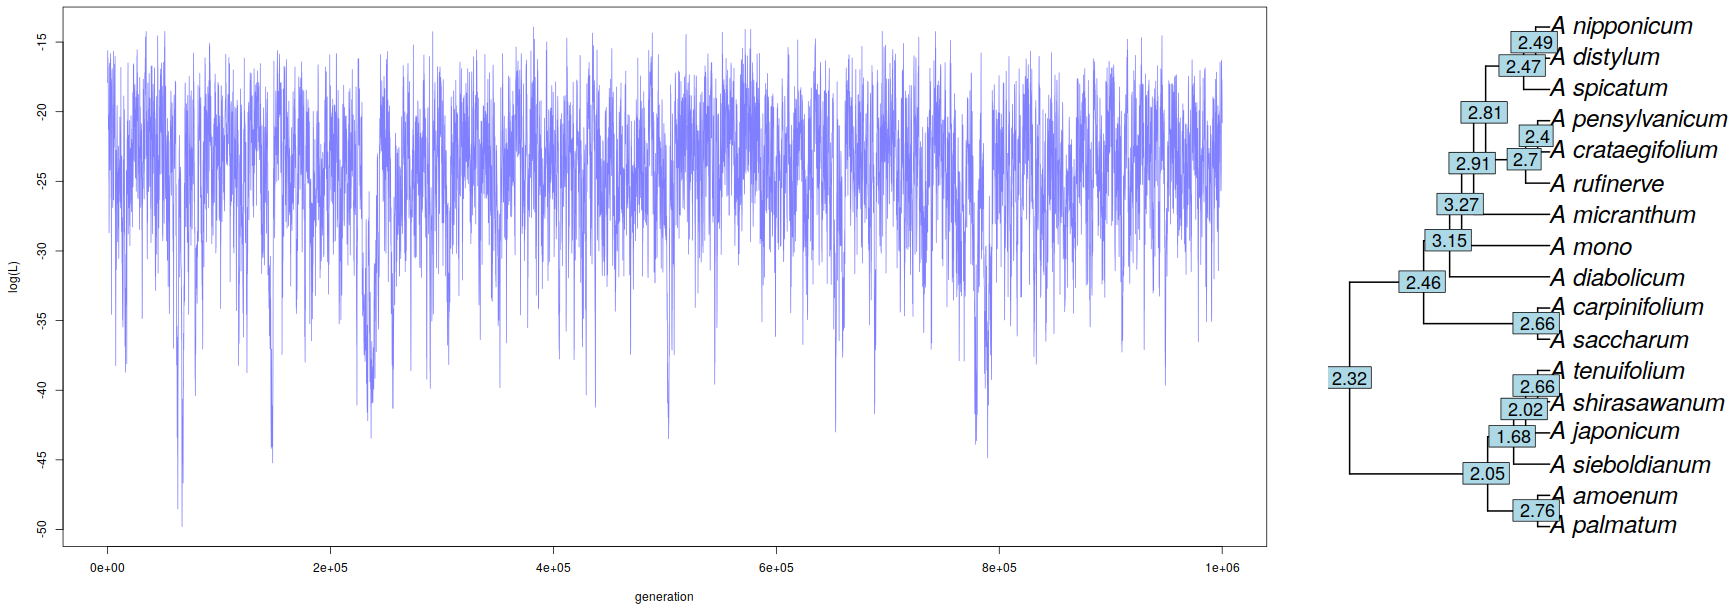
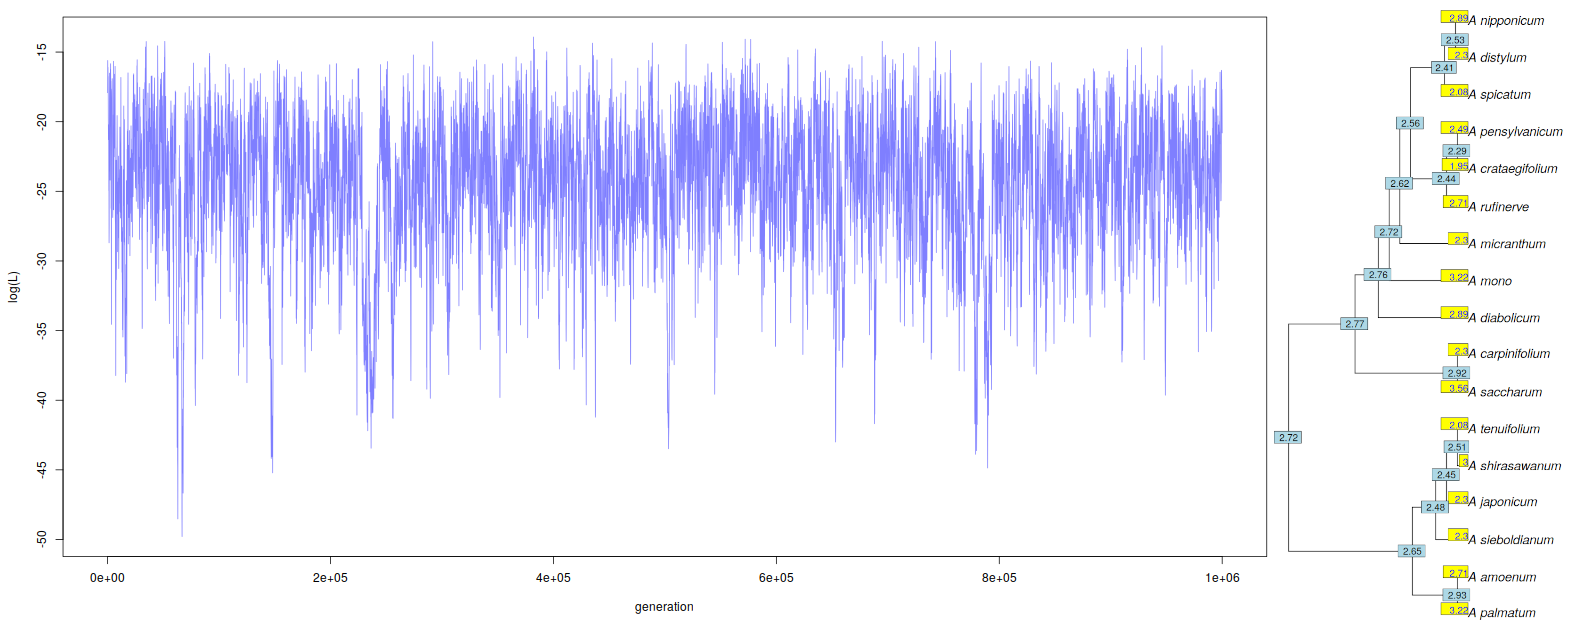
Removed phylogenetic decomposition. Improved Bayesian ancestral state inference. Small improvements of Bloomberg's K and other evolutionary topics.

diff --git a/presentation/r_mol_data_phylogen.tex b/presentation/r_mol_data_phylogen.tex
@@ -4131,7 +4131,7 @@
 	\end{center}
 \end{frame}
 
-% \begin{frame}[fragile]{Map of genetic clines}
+% \begin{frame}[fragile]{Map of genetic clines} % TODO Genetic clines
 % 	\begin{spluscode}
 %     library(akima) # It is needed for manipulation with coordinates
 %     # Transform the coordinates
@@ -4509,7 +4509,7 @@
 	\end{itemize}
 \end{frame}
 
-% \begin{frame}[fragile]{MCMC inference under the admixture model}
+% \begin{frame}[fragile]{MCMC inference under the admixture model} % TODO Admixture
 % 	\begin{spluscode}
 %     for (hauss.geneland.irun in 1:hauss.geneland.nrun) {
 %       hauss.geneland.path.mcmc <- paste("geneland/",
@@ -5625,6 +5625,10 @@
 			\item This is very difficult chapter by meaning of how to find the best method to analyze particular data\ldots
 		\end{itemize}
 		\item Always read manual and original papers explaining the methods
+			\begin{itemize}
+				\item Some methods match values and tips according to labels, some according to order (\alert{!})
+				\item Functions often require input in specific form
+			\end{itemize}
 	\end{itemize}
 \end{frame}
 
@@ -5789,7 +5793,7 @@
 		\item It requires as input phylogenetic tree and respective comparative data
 		\item Phylogenetic component is removed from the data, then classical PCA is calculated
 		\item Very useful for comparison of plenty of characters
-		\item Together with nodes (taxa), PCA scores for PC axes are plotted --- not the characters --- it shows trends of character evolution on the tree, not positions of taxa in PC space
+		\item Together with nodes (taxa), PCA scores for PC axes are plotted --- \textbf{not} the characters --- it shows trends of character evolution on the tree, not positions of taxa in PC space
 		\item Other graphs show global vs. local structure, eigenvalues decomposition and positions of characters in virtual space (if they correlate or not)
 		\item From package \href{https://academic.oup.com/bioinformatics/article/26/15/1907/188748}{adephylo} by \href{https://www.sciencedirect.com/science/article/pii/S0022519310001736}{Jombart et al. 2010}
 		\item It doesn't contain any test, it is more method of data exploration or dealing with big data sets, it is not for verifying hypothesis
@@ -5823,81 +5827,81 @@
 	\end{center}
 \end{frame}
 
-\subsection{Decomposition}
-
-\begin{frame}[fragile]{Decomposition of topographical distances}
-	\begin{spluscode}
-    table.phylo4d(x=phylo4d(x=shorebird.tree, tip.data=treePart(
-      x=shorebird.tree, result="orthobasis")), treetype="cladogram")
-	\end{spluscode}
-	\begin{center}
-		\includegraphics[height=5.5cm]{shorebird_tree_decomp.png}
-	\end{center}
-\end{frame}
-
-\begin{frame}[fragile]{Prepare toy data set (the variable)}
-	\begin{spluscode}
-    # Generate some random variable
-    library(geiger)
-    shorebird.eco <- sim.char(phy=shorebird.tree, par=0.1, nsim=1,
-      model="BM")[,,1]
-    ?sim.char # See it for another possibilities to simulate data
-    # Names for the values
-    names(shorebird.eco) <- shorebird.tree[["tip.label"]]
-    shorebird.eco # See it
-	\end{spluscode}
-	\begin{itemize}
-		\item \texttt{sim.char()} creates an array (we keep only numeric vector of 1$^{st}$ simulation --- \texttt{[,,1]}) of simulated characters, with \texttt{model="BM"} under \href{https://en.wikipedia.org/wiki/Brownian_motion}{Brownian motion}
-		\item Many methods compare \textbf{names} of character values with \texttt{tip.label} slot of the tree to pair character values with correct taxa
-		\begin{itemize}
-			\item Otherwise values must be ordered in same way as in \texttt{tip.label} slot
-			\item \alert{Always check manual for respective function and all data!}
-		\end{itemize}
-	\end{itemize}
-\end{frame}
-
-\begin{frame}[fragile]{Orthonormal decomposition --- phylogenetic eigenvector regression}
-	\begin{spluscode}
-    anova(lm(shorebird.eco ~ as.matrix(orthobasis.phylo(x=shorebird.tree,
-      method="patristic")[,1:2])))
-    Analysis of Variance Table
-    Response: shorebird.eco
-                 Df Sum Sq Mean Sq F value    Pr(>F)
-    as.matrix...  2 226.61 113.306  54.045 8.918e-15 ***
-    Residuals    68 142.56   2.097
-    anova(lm(shorebird.data[["M.Mass"]] ~ as.matrix(orthobasis.phylo(
-      x=shorebird.tree, method="patristic")[,1:2])))
-	\end{spluscode}
-	\begin{itemize}
-		\item Significant result --- significant phylogenetic inertia (phylogenetic effect) --- the tendency for traits to resist evolutionary change despite environmental perturbations
-		\item \texttt{orthobasis.phylo()} return matrix, which is linear transformation of cophenetic distances --- columns 1~and 2~can be used to calculate phylogenetic variance --- it can be used to calculate linear regression
-	\end{itemize}
-\end{frame}
-
-\begin{frame}[fragile]{Orthonormal decomposition of variance of a~quantitative variable on an orthonormal basis}
-	\begin{spluscode}
-    orthogram(x=shorebird.eco, tre=shorebird.tree, nrepet=1000,
-      alter="two-sided")
-    ?orthogram # See another calculation possibilities
-    orthogram(x=shorebird.data[["M.Mass"]], tre=shorebird.tree, nrepet=1000,
-      alter="two-sided")
-	\end{spluscode}
-	\begin{itemize}
-		\item Analyses one quantitative trait
-		\item Do not confuse with \texttt{ade4::orthogram} --- similar, but require data in little bit different form, marked as deprecated and replaced by the \texttt{adephylo} version
-		\item It returns results of 5~non-parametric tests associated to the variance decomposition
-		\item Procedure decomposes data matrix to separate phylogeny and phenotype to see if there is significant signal
-	\end{itemize}
-\end{frame}
-
-\begin{frame}{Orthogram}
-	\begin{center}
-		\includegraphics[height=6cm]{orthogram.png}
-	\end{center}
-	\begin{itemize}
-		\item Observed value is out of permutations --- significant \href{https://en.wikipedia.org/wiki/Phylogenetic_inertia}{inertia of the trait to phylogeny}
-	\end{itemize}
-\end{frame}
+% \subsection{Decomposition} TODO Decomposition
+% 
+% \begin{frame}[fragile]{Decomposition of topographical distances}
+% 	\begin{spluscode}
+%     table.phylo4d(x=phylo4d(x=shorebird.tree, tip.data=treePart(
+%       x=shorebird.tree, result="orthobasis")), treetype="cladogram")
+% 	\end{spluscode}
+% 	\begin{center}
+% 		\includegraphics[height=5.5cm]{shorebird_tree_decomp.png}
+% 	\end{center}
+% \end{frame}
+% 
+% \begin{frame}[fragile]{Prepare toy data set (the variable)}
+% 	\begin{spluscode}
+%     # Generate some random variable
+%     library(geiger)
+%     shorebird.eco <- sim.char(phy=shorebird.tree, par=0.1, nsim=1,
+%       model="BM")[,,1]
+%     ?sim.char # See it for another possibilities to simulate data
+%     # Names for the values
+%     names(shorebird.eco) <- shorebird.tree[["tip.label"]]
+%     shorebird.eco # See it
+% 	\end{spluscode}
+% 	\begin{itemize}
+% 		\item \texttt{sim.char()} creates an array (we keep only numeric vector of 1$^{st}$ simulation --- \texttt{[,,1]}) of simulated characters, with \texttt{model="BM"} under \href{https://en.wikipedia.org/wiki/Brownian_motion}{Brownian motion}
+% 		\item Many methods compare \textbf{names} of character values with \texttt{tip.label} slot of the tree to pair character values with correct taxa
+% 		\begin{itemize}
+% 			\item Otherwise values must be ordered in same way as in \texttt{tip.label} slot
+% 			\item \alert{Always check manual for respective function and all data!}
+% 		\end{itemize}
+% 	\end{itemize}
+% \end{frame}
+% 
+% \begin{frame}[fragile]{Orthonormal decomposition --- phylogenetic eigenvector regression}
+% 	\begin{spluscode}
+%     anova(lm(shorebird.eco ~ as.matrix(orthobasis.phylo(x=shorebird.tree,
+%       method="patristic")[,1:2])))
+%     Analysis of Variance Table
+%     Response: shorebird.eco
+%                  Df Sum Sq Mean Sq F value    Pr(>F)
+%     as.matrix...  2 226.61 113.306  54.045 8.918e-15 ***
+%     Residuals    68 142.56   2.097
+%     anova(lm(shorebird.data[["M.Mass"]] ~ as.matrix(orthobasis.phylo(
+%       x=shorebird.tree, method="patristic")[,1:2])))
+% 	\end{spluscode}
+% 	\begin{itemize}
+% 		\item Significant result --- significant phylogenetic inertia (phylogenetic effect) --- the tendency for traits to resist evolutionary change despite environmental perturbations
+% 		\item \texttt{orthobasis.phylo()} return matrix, which is linear transformation of cophenetic distances --- columns 1~and 2~can be used to calculate phylogenetic variance --- it can be used to calculate linear regression
+% 	\end{itemize}
+% \end{frame}
+% 
+% \begin{frame}[fragile]{Orthonormal decomposition of variance of a~quantitative variable on an orthonormal basis}
+% 	\begin{spluscode}
+%     orthogram(x=shorebird.eco, tre=shorebird.tree, nrepet=1000,
+%       alter="two-sided")
+%     ?orthogram # See another calculation possibilities
+%     orthogram(x=shorebird.data[["M.Mass"]], tre=shorebird.tree, nrepet=1000,
+%       alter="two-sided")
+% 	\end{spluscode}
+% 	\begin{itemize}
+% 		\item Analyses one quantitative trait
+% 		\item Do not confuse with \texttt{ade4::orthogram} --- similar, but require data in little bit different form, marked as deprecated and replaced by the \texttt{adephylo} version
+% 		\item It returns results of 5~non-parametric tests associated to the variance decomposition
+% 		\item Procedure decomposes data matrix to separate phylogeny and phenotype to see if there is significant signal
+% 	\end{itemize}
+% \end{frame}
+% 
+% \begin{frame}{Orthogram}
+% 	\begin{center}
+% 		\includegraphics[height=6cm]{orthogram.png}
+% 	\end{center}
+% 	\begin{itemize}
+% 		\item Observed value is out of permutations --- significant \href{https://en.wikipedia.org/wiki/Phylogenetic_inertia}{inertia of the trait to phylogeny}
+% 	\end{itemize}
+% \end{frame}
 
 \subsection{PGLS}
 
@@ -6008,30 +6012,29 @@
 
 \subsection{Phylosignal}
 
-\begin{frame}[fragile]{Phylogenetic signal}
+\begin{frame}[fragile]{Phylogenetic signal}{Blomberg's K~statistic of phylogenetic signal}
 	\begin{itemize}
 		\item Direct consequence of the evolution of trait depends on evolution --- if trait variation is driven by environment, phylogenetic signal is~0
-		\item Blomberg's K~statistic of phylogenetic signal
+		\item Blomberg's values of 1~correspond to a~Brownian motion process, which implies some degree of phylogenetic signal or conservatism
+		\item K~values closer to zero correspond to a~random or convergent pattern of evolution, while K~values greater than 1~indicate strong phylogenetic signal and conservatism of traits
 	\end{itemize}
 	\begin{spluscode}
     library(picante)
     # It requires named vector of trait values
     shorebird.mmass <- shorebird.data[["M.Mass"]]
     names(shorebird.mmass) <- rownames(shorebird.data)
+    shorebird.mmass
+	\end{spluscode}
+\end{frame}
+
+\begin{frame}[fragile]{Analyze, including multiple traits in once}
+	\begin{spluscode}
     # Bloomberg's K statistics
     Kcalc(x=shorebird.mmass, phy=shorebird.tree, checkdata=TRUE)
     # Test with permutations
     phylosignal(x=shorebird.mmass, phy=shorebird.tree, reps=1000, checkdata=T)
-\end{spluscode}
-	\begin{itemize}
-		\item Blomberg's values of 1~correspond to a~Brownian motion process, which implies some degree of phylogenetic signal or conservatism
-		\item K~values closer to zero correspond to a~random or convergent pattern of evolution, while K~values greater than 1~indicate strong phylogenetic signal and conservatism of traits
-	\end{itemize}
-\end{frame}
-
-\begin{frame}[fragile]{Analyze multiple traits in once}
-	\begin{spluscode}
-    # multiPhylosignal requires data frame of numerical values
+    # Analyze multiple traits in once with multiPhylosignal,
+    # it requires data frame of numerical values
     multiPhylosignal(x=shorebird.data[,2:5], phy=shorebird.tree, reps=1000)
                     K PIC.variance.obs PIC.variance.rnd.mean PIC.variance.P...
     M.Mass   1.089419     5.139489e+02          3.278559e+03    0.000999001...
@@ -6087,7 +6090,7 @@
 	\begin{spluscode}
     # Load library
     library(ape)
-    # Loading data
+    # Loading data - morphological characteristics of Acer species
     # Ackerly & Donoghue (1998) https://doi.org/10.1086/286208
     data(maples, package="adephylo")
     ?adephylo::maples
@@ -6228,41 +6231,36 @@
     maples.height.bayes <- anc.Bayes(tree=maples.tree, x=maples.height,
       ngen=1000000) # Use more MCMC generations
     maples.height.bayes
-    # Get end of ancestral states from Bayesian posterior distribution
-    # (it should converge to certain values)
+    # Get end (discard ca. first 20%) of ancestral states from Bayesian
+    # posterior distribution (it should converge to certain values)
     tail(maples.height.bayes[["mcmc"]])
-    maples.height.bayes[["mcmc"]][10001,3:18]
+    dim(maples.height.bayes[["mcmc"]])
     # Get means of ancestral states from Bayesian posterior distribution
-    colMeans(maples.height.bayes[["mcmc"]][2001:nrow(
-      maples.height.bayes[["mcmc"]]),as.character(1:
+    maples.height.bayes.anc <- colMeans(maples.height.bayes[["mcmc"]][2001:
+      nrow(maples.height.bayes[["mcmc"]]),as.character(1:
       maples.tree$Nnode+length(maples.tree$tip.label))])
     # Plot the ancestral states from posterior distribution
     # (it should converge to certain values)
     plot(maples.height.bayes)
-    # Plot the tree and reconstructed ancestral states
-    plot.phylo(x=maples.tree, edge.width=2, cex=2)
 	\end{spluscode}
 \end{frame}
 
 \begin{frame}[fragile]{Bayesian ancestral character estimation II}
 	\begin{spluscode}
-    maples.height.bayes # Mean ancestral states from posterior distribution
-          18       19       20       21       22       23       24       25...
-    2.659527 2.662223 2.932293 2.482104 2.456929 2.510414 2.692636 2.919908...
-    tail(maples.height.bayes[["mcmc"]]) # See end of the table
-              gen      sig2       18       19       20 ...       33    logLik
-       ...     ...       ...      ...      ...      ... ...      ...       ...
-    10000  999900 0.1860167 2.284352 2.680593 2.962142 ... 2.494260 -19.00596
-    10001 1000000 0.1834573 2.315086 2.048144 2.755104 ... 2.485949 -20.80713
-    maples.height.bayes[["mcmc"]][10001,3:18] # See end of the table - values
-                18       19       20       21       22       23       24 ...
-    10001 2.315086 2.048144 2.755104 1.680306 2.019788 2.660322 2.456076 ...
-    # Get means of ancestral states from Bayesian posterior distribution
-    colMeans(maples.height.bayes[["mcmc"]][2001:nrow(
-      maples.height.bayes[["mcmc"]]),as.character(1:
-      maples.tree$Nnode+length(maples.tree$tip.label))])
-          18       19       20       21       22       23       24       25 ...
-    2.659527 2.662223 2.932293 2.482104 2.456929 2.510414 2.692636 2.919908 ...
+    # Mean ancestral states from posterior distribution
+    maples.height.bayes.anc
+          18       19       20       21       22       23       24       25
+    2.722285 2.646832 2.927672 2.482144 2.449808 2.507120 2.767445 2.922756
+          26       27       28       29       30       31       32       33
+    2.755663 2.723439 2.621110 2.560384 2.437797 2.285165 2.406589 2.527682
+    # Statistics of reconstructed values
+    summary(maples.height.bayes[["mcmc"]][2001:nrow(maples.height.bayes
+      [["mcmc"]]),as.character(1:maples.tree$Nnode+length(
+      maples.tree$tip.label))])
+    # Plot the tree and reconstructed ancestral states
+    plot.phylo(x=maples.tree, edge.width=2, cex=2)
+    tiplabels(maples.height, adj=c(1, 0), col="blue", bg="yellow", cex=1.5)
+    nodelabels(round(x=maples.height.bayes.anc, digits=2), cex=1.5)
 	\end{spluscode}
 \end{frame}
 
